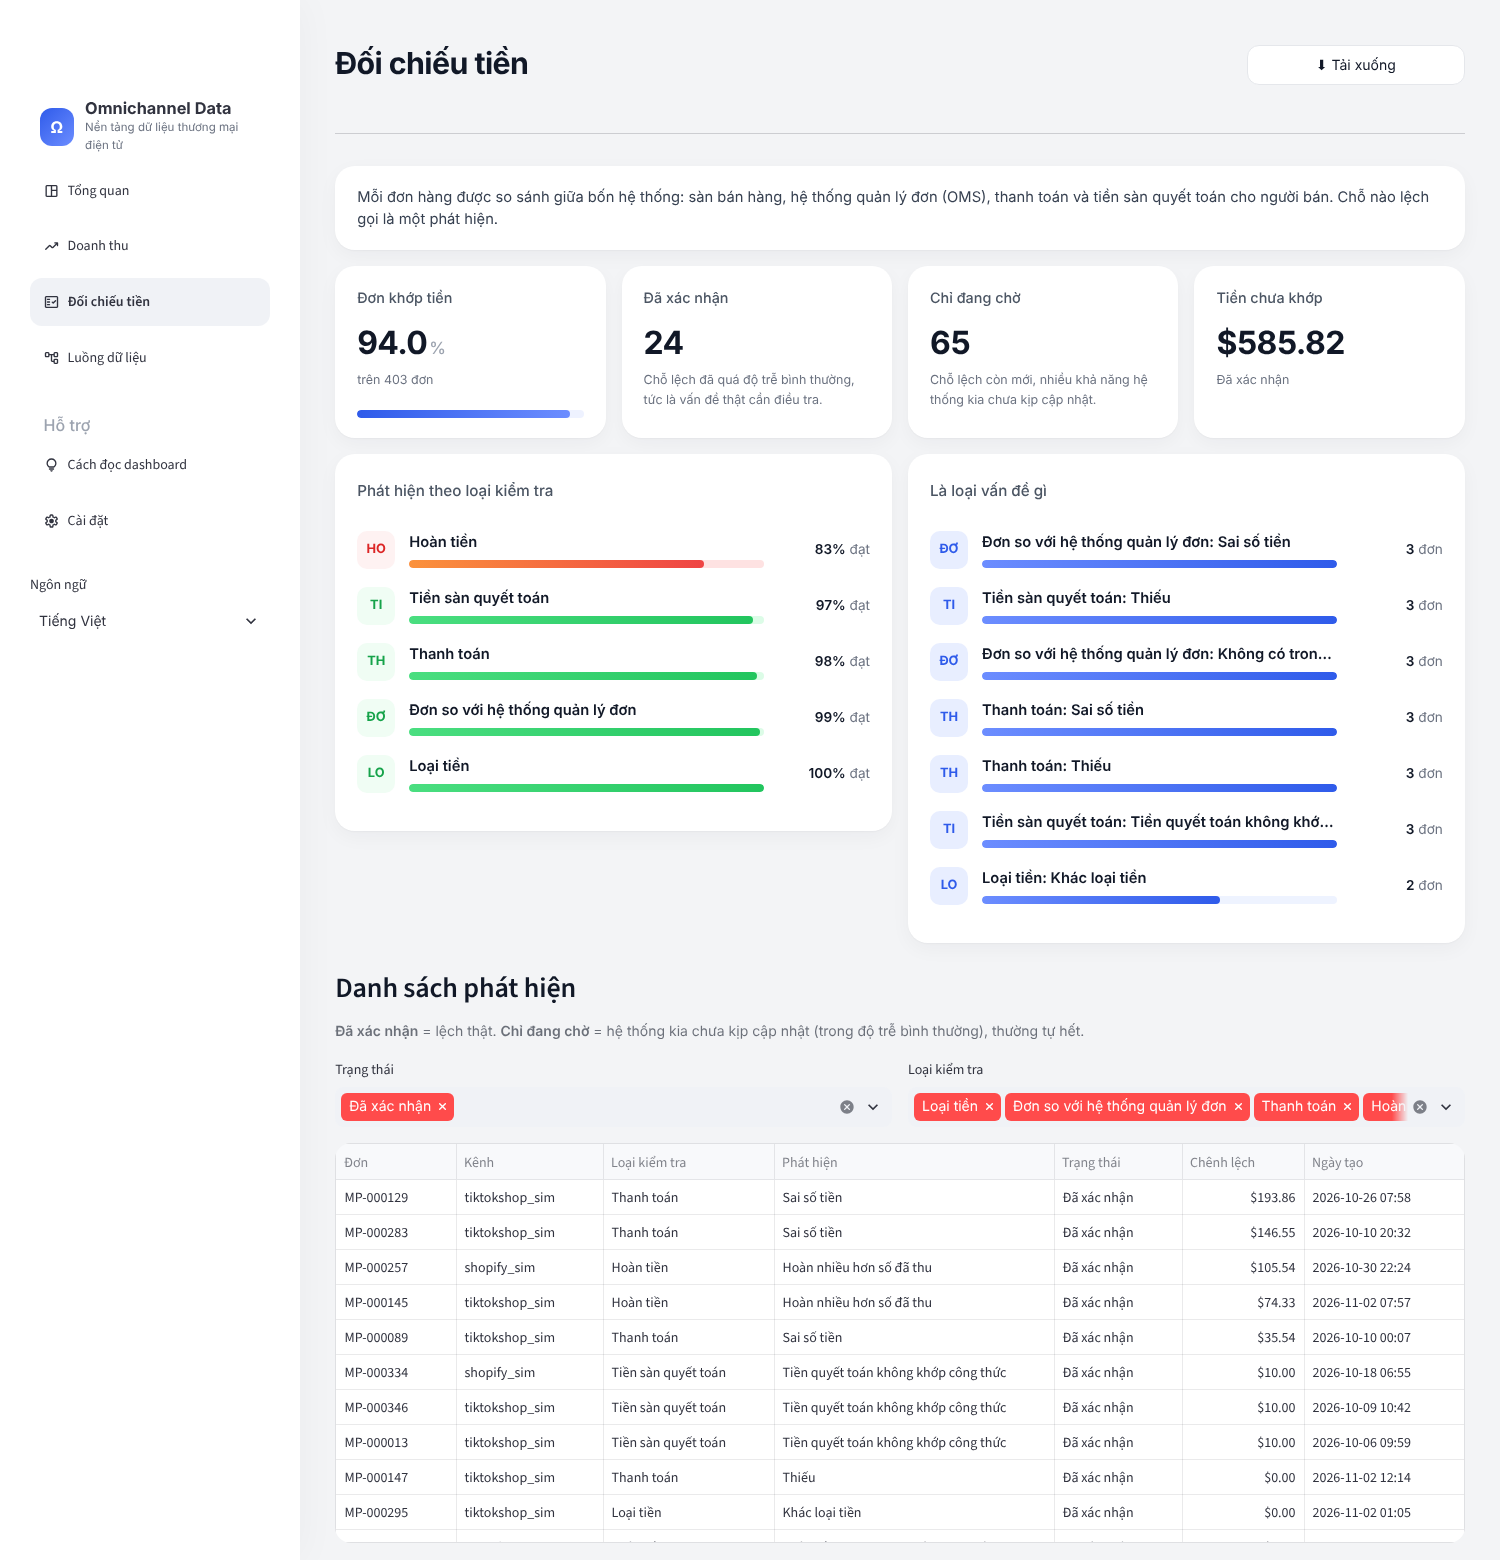
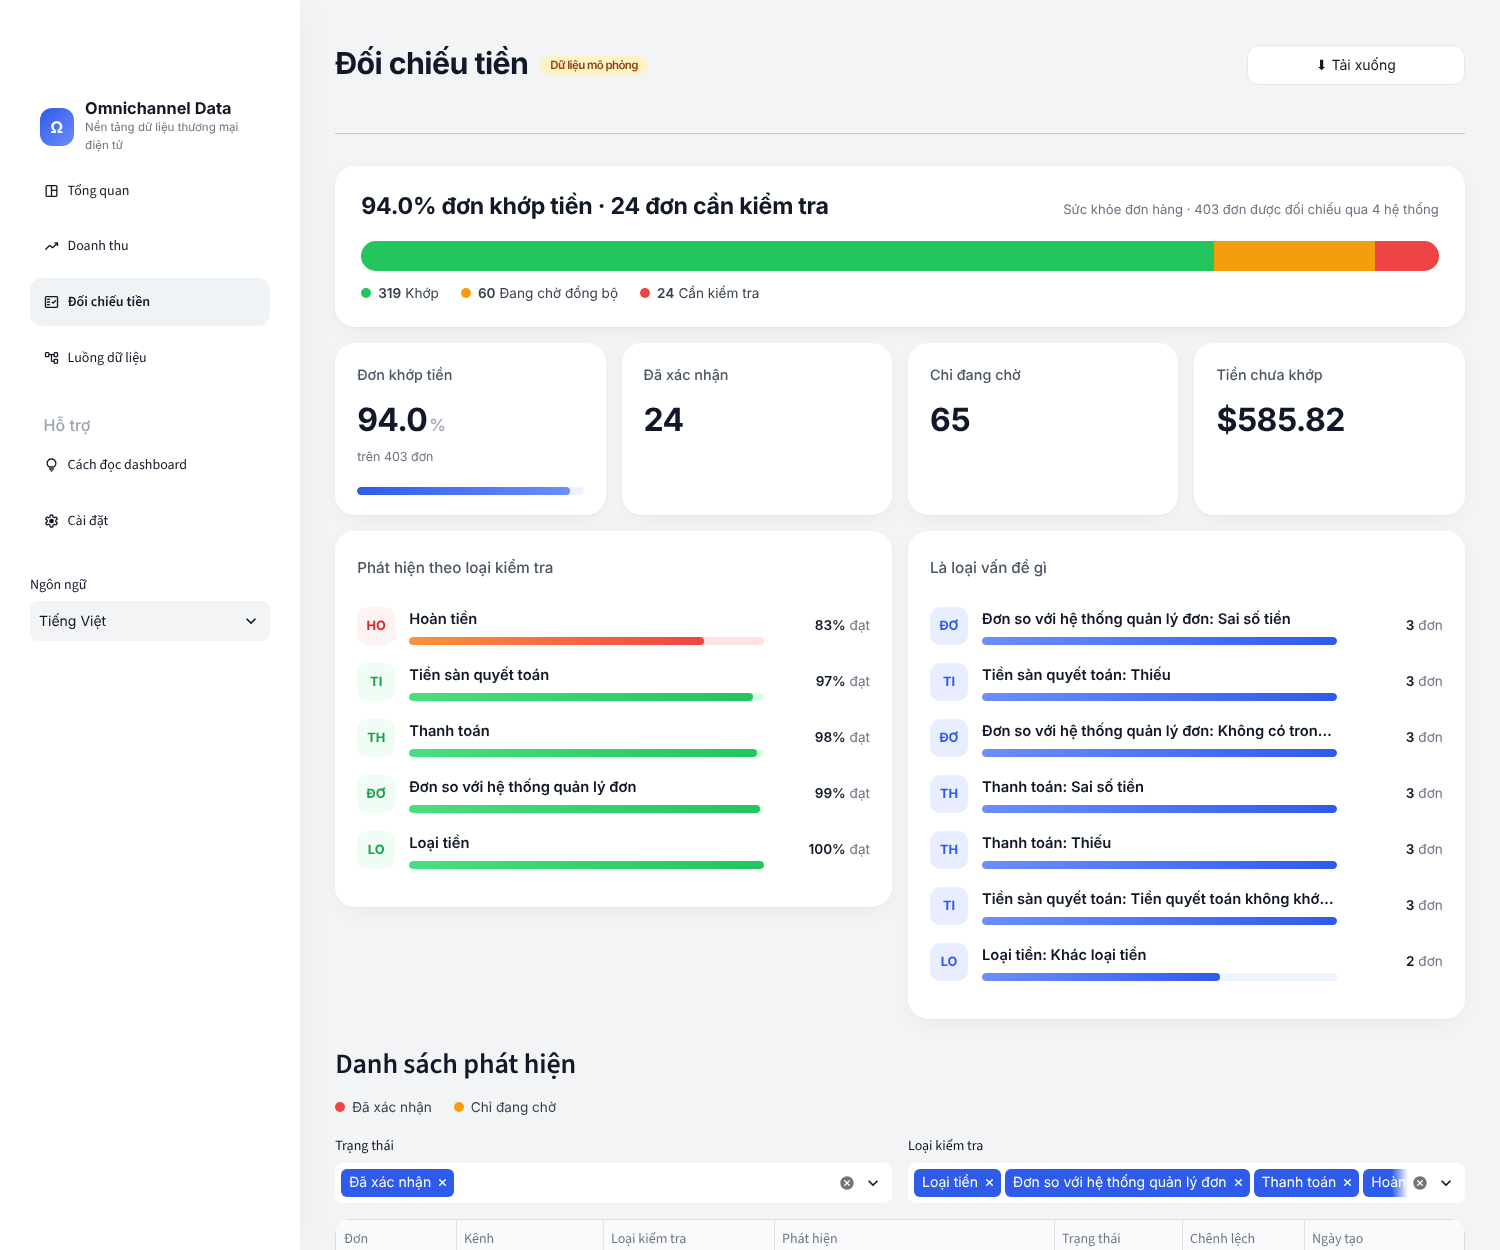
Dashboard: data-first story (order-health bar), far less text, force light theme

diff --git a/streamlit_app/platform_dashboard.py b/streamlit_app/platform_dashboard.py
@@ -50,7 +50,7 @@ def load_all():
 # ------------------------------------------------------------------ shared widgets
 def header(title: str, csv: tuple[str, bytes] | None = None) -> None:
     a, b = st.columns([8, 2])
-    a.markdown(f'<div class="page-title">{ui.esc(title)}</div>', unsafe_allow_html=True)
+    a.markdown(f'<div class="page-title">{ui.esc(title)}<span class="chip">{ui.esc(tr("sim_chip"))}</span></div>', unsafe_allow_html=True)
     if csv:
         b.download_button("⬇  " + tr("download"), csv[1], csv[0], "text/csv", use_container_width=True)
     ui.render('<hr class="page-rule">')
@@ -80,6 +80,13 @@ def activity_card(f: pd.DataFrame, gran: str, height: int = 352) -> str:
             f'<span style="color:#9CA3AF">{ui.esc(tr("activity_sub", unit=tr(gran).lower()))}</span></h4>{chart}</div>')
 
 
+def order_health_card(headline: str, checked: int, n_review: int, n_wait: int) -> str:
+    bar = ui.health_bar([(tr("hb_clean"), checked - n_review - n_wait, "#22C55E"), (tr("hb_wait"), n_wait, "#F59E0B"),
+                         (tr("hb_review"), n_review, "#EF4444")])
+    return (f'<div class="card hero"><div class="top"><div class="headline">{ui.esc(headline)}</div>'
+            f'<div class="sub">{ui.esc(tr("hero_title"))} · {ui.esc(tr("hero_sub", n=f"{checked:,}"))}</div></div>{bar}</div>')
+
+
 def nice_check(t: str) -> str:
     return check_name(lang, t)
 
@@ -93,15 +100,9 @@ def page_overview():
     f = story.filter_sales(sales, tf, ch)
     s = story.build_story(lang, f, kpi, summary)
 
-    ui.render(f'<div class="banner"><div class="eyebrow">{ui.esc(tr("story_title"))}</div>'
-              f'<div class="headline">{ui.esc(s["headline"])}</div><div class="sim">{ui.esc(tr("sim_note"))}</div></div>')
-    c = st.columns(3)
-    for col, key in zip(c, ("what", "why", "todo"), strict=True):
-        body = ui.esc(s[key]).replace("**", "§").replace("*", "")
-        parts = body.split("§")
-        body = "".join(f"<b>{p}</b>" if i % 2 else p for i, p in enumerate(parts))
-        col.markdown("".join(x.strip() for x in f'<div class="card story"><h5>{ui.esc(tr("story_" + key))}</h5><p>{body}</p></div>'.splitlines()),
-                     unsafe_allow_html=True)
+    checked = int(kpi["orders_checked"])
+    n_review, n_wait = int(kpi["orders_with_confirmed_issue"]), int(kpi["orders_with_timing_only"])
+    ui.render(order_health_card(s["headline"], checked, n_review, n_wait))
     st.write("")
 
     left, right = st.columns([6, 5])
@@ -119,11 +120,11 @@ def page_overview():
         r2 = st.columns(3)
         clean = float(kpi["clean_orders_pct"])
         r2[0].markdown(ui.kpi(tr("kpi_clean"), f"{clean:.1f}", "%", tr("kpi_of_orders", n=f"{int(kpi['orders_checked']):,}"),
-                              ui.meter(clean / 100)), unsafe_allow_html=True)
+                              ui.meter(clean / 100), hint=tr("g_clean_d")), unsafe_allow_html=True)
         r2[1].markdown(ui.kpi(tr("kpi_issues"), f"{int(kpi['orders_with_confirmed_issue'])}", "",
                               tr("kpi_timing_note", n=int(kpi["orders_with_timing_only"])),
                               ui.meter(int(kpi["orders_with_confirmed_issue"]) / max(1, int(kpi["orders_checked"])))), unsafe_allow_html=True)
-        r2[2].markdown(ui.kpi(tr("kpi_amount"), story.money(kpi["unresolved_amount_difference"]), "", tr("g_confirmed")),
+        r2[2].markdown(ui.kpi(tr("kpi_amount"), story.money(kpi["unresolved_amount_difference"]), "", "", "", hint=tr("g_confirmed_d")),
                        unsafe_allow_html=True)
     right.markdown("".join(x.strip() for x in activity_card(f, gran, 352).splitlines()), unsafe_allow_html=True)
     st.write("")
@@ -176,14 +177,16 @@ def page_recon():
     d = load_all()
     kpi, summary, findings = d["v_recon_kpi"].iloc[0], d["v_recon_summary"], d["v_recon_findings"]
     header(tr("title_recon"), ("reconciliation_findings.csv", findings.to_csv(index=False).encode()))
-    ui.render(ui.card("", f'<div class="story"><p>{ui.esc(tr("recon_intro")).replace("*", "")}</p></div>'))
+    s_ = story.build_story(lang, None, kpi, summary)
+    ui.render(order_health_card(s_["headline"], int(kpi["orders_checked"]), int(kpi["orders_with_confirmed_issue"]),
+                                int(kpi["orders_with_timing_only"])))
     st.write("")
     k = st.columns(4)
     k[0].markdown(ui.kpi(tr("kpi_clean"), f"{kpi['clean_orders_pct']:.1f}", "%", tr("kpi_of_orders", n=f"{int(kpi['orders_checked']):,}"),
-                         ui.meter(kpi["clean_orders_pct"] / 100)), unsafe_allow_html=True)
-    k[1].markdown(ui.kpi(tr("confirmed"), f"{int(kpi['confirmed_findings'])}", "", tr("g_confirmed_d")), unsafe_allow_html=True)
-    k[2].markdown(ui.kpi(tr("timing"), f"{int(kpi['timing_findings'])}", "", tr("g_timing_d")), unsafe_allow_html=True)
-    k[3].markdown(ui.kpi(tr("kpi_amount"), story.money(kpi["unresolved_amount_difference"]), "", tr("g_confirmed")), unsafe_allow_html=True)
+                         ui.meter(kpi["clean_orders_pct"] / 100), hint=tr("g_clean_d")), unsafe_allow_html=True)
+    k[1].markdown(ui.kpi(tr("confirmed"), f"{int(kpi['confirmed_findings'])}", hint=tr("g_confirmed_d")), unsafe_allow_html=True)
+    k[2].markdown(ui.kpi(tr("timing"), f"{int(kpi['timing_findings'])}", hint=tr("g_timing_d")), unsafe_allow_html=True)
+    k[3].markdown(ui.kpi(tr("kpi_amount"), story.money(kpi["unresolved_amount_difference"]), hint=tr("g_confirmed_d")), unsafe_allow_html=True)
     st.write("")
     health = story.check_health(summary)
     top = story.top_finding_types(summary)
@@ -196,7 +199,8 @@ def page_recon():
          for r in top.head(7).itertuples()])), unsafe_allow_html=True)
     st.write("")
     st.subheader(tr("findings_table"))
-    st.caption(tr("class_help"))
+    ui.render(ui.legend([(tr("confirmed"), "#EF4444"), (tr("timing"), "#F59E0B")]))
+    st.write("")
     c1, c2 = st.columns(2)
     cls = c1.multiselect(tr("filter_class"), ["CONFIRMED", "TIMING"], default=["CONFIRMED"],
                          format_func=lambda x: tr("confirmed" if x == "CONFIRMED" else "timing"))
@@ -216,12 +220,10 @@ def page_recon():
 def page_pipeline():
     h = load_all()["v_pipeline_health"].sort_values("rows_loaded", ascending=False)
     header(tr("title_pipeline"))
-    ui.render(ui.card("", f'<div class="story"><p>{ui.esc(tr("pipe_intro"))}</p></div>'))
-    st.write("")
     k = st.columns(4)
     k[0].markdown(ui.kpi(tr("pipe_tables"), f"{len(h)}"), unsafe_allow_html=True)
     k[1].markdown(ui.kpi(tr("pipe_rows"), f"{h['rows_loaded'].sum():,.0f}"), unsafe_allow_html=True)
-    k[2].markdown(ui.kpi(tr("pipe_versions"), f"{h['extra_versions'].sum():,.0f}", "", tr("g_oms") and ""), unsafe_allow_html=True)
+    k[2].markdown(ui.kpi(tr("pipe_versions"), f"{h['extra_versions'].sum():,.0f}"), unsafe_allow_html=True)
     k[3].markdown(ui.kpi(tr("pipe_last"), f"{h['last_loaded_at'].max():%d %b %H:%M}"), unsafe_allow_html=True)
     st.write("")
     chart = ui.bar_chart([x.split(".")[-1] for x in h["dataset"]], h["rows_loaded"].tolist(), height=260)
@@ -230,7 +232,6 @@ def page_pipeline():
     shown = h.rename(columns={"dataset": tr("col_table"), "rows_loaded": tr("col_rows"), "batches": tr("col_batches"),
                               "last_loaded_at": tr("col_last"), "minutes_since_last_load": tr("col_age")})
     st.dataframe(shown[[tr("col_table"), tr("col_rows"), tr("col_batches"), tr("col_last"), tr("col_age")]], width="stretch", hide_index=True)
-    st.caption(tr("pipe_note"))
 
 
 def page_guide():

diff --git a/streamlit_app/dash_i18n.py b/streamlit_app/dash_i18n.py
@@ -19,7 +19,7 @@ TEXT: dict[str, dict[str, str]] = {
         "story_what": "What happened", "story_why": "Why it matters", "story_todo": "What to do next",
         "kpi_net": "Net sales", "kpi_orders": "Orders", "kpi_aov": "Average order value",
         "kpi_clean": "Orders with matching money", "kpi_issues": "Orders to review", "kpi_amount": "Money not yet explained",
-        "kpi_of_orders": "of {n} orders", "kpi_timing_note": "{n} more are only waiting to sync",
+        "kpi_of_orders": "of {n} orders", "kpi_timing_note": "+{n} waiting",
         "activity": "Sales activity", "activity_sub": "Net sales per {unit}",
         "weakest": "Needs attention", "strongest": "Healthiest checks", "ok_suffix": "OK",
         "channel_board": "Channel leaderboard", "findings_board": "Biggest open findings",
@@ -54,7 +54,9 @@ TEXT: dict[str, dict[str, str]] = {
         "g_oms": "OMS", "g_oms_d": "The internal order management system that tracks fulfilment.",
         "g_clean": "Orders with matching money", "g_clean_d": "Share of orders with no confirmed finding.",
         "g_fresh": "Freshness", "g_fresh_d": "How long ago the data was last loaded.",
-        "headline_ok": "{clean} of orders have matching money; {issues} orders need a closer look.",
+        "headline_ok": "{clean} of orders match · {issues} need review",
+        "hb_clean": "Matching", "hb_wait": "Waiting to sync", "hb_review": "Need review", "sim_chip": "Simulated data",
+        "hero_title": "Order health", "hero_sub": "{n} orders checked across 4 systems",
         "story_what_body": "We compared {checked} orders across the marketplace, order system, payments and payouts. {issues} orders have a confirmed problem; {timing} more are only waiting for another system to catch up.",
         "story_why_body": "About {amount} is not yet explained. The weakest area is **{weak}** ({weak_pct} of its checks pass).",
         "story_todo_body": "Start with **{top}** ({n} orders). Open *Money matching* to see the exact orders; recent differences resolve on their own.",
@@ -76,7 +78,7 @@ TEXT: dict[str, dict[str, str]] = {
         "story_what": "Chuyện gì đã xảy ra", "story_why": "Vì sao quan trọng", "story_todo": "Nên làm gì tiếp",
         "kpi_net": "Doanh thu thuần", "kpi_orders": "Số đơn hàng", "kpi_aov": "Giá trị đơn trung bình",
         "kpi_clean": "Đơn khớp tiền", "kpi_issues": "Đơn cần kiểm tra", "kpi_amount": "Tiền chưa khớp",
-        "kpi_of_orders": "trên {n} đơn", "kpi_timing_note": "còn {n} đơn chỉ đang chờ đồng bộ",
+        "kpi_of_orders": "trên {n} đơn", "kpi_timing_note": "+{n} đang chờ",
         "activity": "Hoạt động bán hàng", "activity_sub": "Doanh thu thuần theo {unit}",
         "weakest": "Cần chú ý nhất", "strongest": "Ổn định nhất", "ok_suffix": "đạt",
         "channel_board": "Xếp hạng kênh bán", "findings_board": "Lỗi lớn nhất đang mở",
@@ -111,7 +113,9 @@ TEXT: dict[str, dict[str, str]] = {
         "g_oms": "OMS", "g_oms_d": "Hệ thống quản lý đơn hàng nội bộ, theo dõi việc giao hàng.",
         "g_clean": "Đơn khớp tiền", "g_clean_d": "Tỷ lệ đơn không có phát hiện nào đã xác nhận.",
         "g_fresh": "Độ mới", "g_fresh_d": "Dữ liệu được nạp lần cuối cách đây bao lâu.",
-        "headline_ok": "{clean} đơn hàng khớp tiền; {issues} đơn cần xem kỹ hơn.",
+        "headline_ok": "{clean} đơn khớp tiền · {issues} đơn cần kiểm tra",
+        "hb_clean": "Khớp", "hb_wait": "Đang chờ đồng bộ", "hb_review": "Cần kiểm tra", "sim_chip": "Dữ liệu mô phỏng",
+        "hero_title": "Sức khỏe đơn hàng", "hero_sub": "{n} đơn được đối chiếu qua 4 hệ thống",
         "story_what_body": "Hệ thống đã đối chiếu {checked} đơn giữa sàn, hệ thống quản lý đơn, thanh toán và tiền quyết toán. {issues} đơn có vấn đề đã xác nhận; {timing} đơn khác chỉ đang chờ hệ thống kia cập nhật.",
         "story_why_body": "Khoảng {amount} chưa được giải thích. Mảng yếu nhất là **{weak}** (chỉ {weak_pct} lượt kiểm tra đạt).",
         "story_todo_body": "Bắt đầu từ **{top}** ({n} đơn). Mở trang *Đối chiếu tiền* để xem đúng các đơn; những chỗ lệch mới sẽ tự hết.",

diff --git a/streamlit_app/dash_ui.py b/streamlit_app/dash_ui.py
@@ -56,6 +56,15 @@ header[data-testid="stHeader"], [data-testid="stToolbar"], [data-testid="stDecor
 .lrow .av {{ width:42px; height:42px; border-radius:50%; flex:none; display:flex; align-items:center; justify-content:center; color:#fff; font-weight:700; font-size:.85rem; }}
 .lrow .who {{ flex:1; min-width:0; }} .lrow .n {{ font-weight:600; font-size:.95rem; }} .lrow .s {{ color:{MUTED}; font-size:.8rem; }}
 .lrow .rank {{ display:flex; align-items:center; gap:6px; font-weight:600; }} .up {{ color:{GREEN}; font-size:.7rem; }} .down {{ color:{RED}; font-size:.7rem; }} .flat {{ color:#9CA3AF; font-size:.7rem; }}
+ .chip {{ display:inline-block; background:#FEF3C7; color:#92400E; font-size:.72rem; font-weight:600; padding:3px 10px; border-radius:99px; margin-left:12px; vertical-align:middle; }}
+.hero {{ padding: 22px 26px; }}
+.hero .top {{ display:flex; align-items:baseline; justify-content:space-between; flex-wrap:wrap; gap:6px; }}
+.hero .headline {{ font-size:1.45rem; font-weight:700; letter-spacing:-.01em; }}
+.hero .sub {{ color:{MUTED}; font-size:.82rem; }}
+.hbar {{ display:flex; height:30px; border-radius:99px; overflow:hidden; margin:16px 0 12px; background:#EEF0F4; }}
+.hbar span {{ display:block; height:100%; }}
+.legend {{ display:flex; gap:22px; flex-wrap:wrap; font-size:.85rem; color:#374151; }}
+.legend i {{ display:inline-block; width:10px; height:10px; border-radius:50%; margin-right:7px; }} .legend b {{ margin-right:4px; }}
 .flow {{ display:flex; gap:10px; align-items:stretch; flex-wrap:wrap; }} .flow .step {{ flex:1; min-width:150px; background:#F8FAFF; border:1px solid #E3EAFF; border-radius:16px; padding:14px 16px; }}
 .flow .step b {{ display:block; font-size:.92rem; }} .flow .step span {{ color:{MUTED}; font-size:.8rem; }} .flow .arrow {{ align-self:center; color:#9CA3AF; font-size:1.3rem; }}
 .gloss {{ display:grid; grid-template-columns: 200px 1fr; gap:10px 18px; }} .gloss b {{ font-weight:600; }} .gloss span {{ color:#4B5563; }}
@@ -150,10 +159,23 @@ def card(title: str, body: str, extra_class: str = "", min_height: int = 0) -> s
     return f'<div class="card {extra_class}"{style}>' + (f"<h4>{esc(title)}</h4>" if title else "") + body + "</div>"
 
 
-def kpi(label: str, value: str, unit: str = "", note: str = "", visual: str = "") -> str:
+def kpi(label: str, value: str, unit: str = "", note: str = "", visual: str = "", hint: str = "") -> str:
     u = f"<small>{esc(unit)}</small>" if unit else ""
     n = f'<div class="note">{note}</div>' if note else ""
-    return f'<div class="card kpi"><div class="label">{esc(label)}</div><div class="value">{esc(value)}{u}</div>{n}{visual}</div>'
+    tip = f' title="{esc(hint)}"' if hint else ""
+    return f'<div class="card kpi"{tip}><div class="label">{esc(label)}</div><div class="value">{esc(value)}{u}</div>{n}{visual}</div>'
+
+
+def health_bar(parts: list[tuple[str, float, str]]) -> str:
+    """parts: (label, count, colour). One stacked bar + a legend with the numbers (the data tells the story)."""
+    total = sum(c for _, c, _ in parts) or 1
+    segs = "".join(f'<span style="width:{c / total * 100:.2f}%;background:{col}" title="{esc(lab)}: {c:,.0f}"></span>' for lab, c, col in parts)
+    leg = "".join(f'<div><i style="background:{col}"></i><b>{c:,.0f}</b>{esc(lab)}</div>' for lab, c, col in parts)
+    return f'<div class="hbar">{segs}</div><div class="legend">{leg}</div>'
+
+
+def legend(items: list[tuple[str, str]]) -> str:
+    return '<div class="legend">' + "".join(f'<div><i style="background:{c}"></i>{esc(t)}</div>' for t, c in items) + "</div>"
 
 
 def meter(frac: float) -> str:

diff --git a/tests/integration/test_dashboard.py b/tests/integration/test_dashboard.py
@@ -91,21 +91,35 @@ def test_every_page_renders_in_both_languages(built, monkeypatch, page, lang):
     assert len(_html(at)) > 200
 
 
-def test_overview_tells_the_story_with_real_numbers(built, monkeypatch):
+def _words(html: str) -> int:
+    import re
+    html = re.sub(r"<style>.*?</style>", " ", html, flags=re.S)
+    return len(re.sub(r"<[^>]+>", " ", html).split())
+
+
+def test_overview_tells_the_story_with_data_not_paragraphs(built, monkeypatch):
     html = _html(_run(monkeypatch, built.path, "overview", "en"))
-    assert "of orders have matching money" in html and "orders need a closer look" in html
-    assert f"{len(built.dataset.marketplace_orders):,}" in html           # order count from the data, not hard-coded
-    assert "24 orders" in html                                          # 30 injected - 6 duplicate-key findings (Python engine only)
-    for section in ("What happened", "Why it matters", "What to do next", "Needs attention", "Channel leaderboard"):
+    assert "of orders match" in html and "need review" in html
+    assert f"{len(built.dataset.marketplace_orders):,}" in html           # order count comes from the data
+    assert "24" in html                                                    # 30 injected - 6 duplicate-key findings (Python engine only)
+    assert 'class="hbar"' in html and html.count("<svg") >= 4               # sparklines + activity chart
+    for section in ("Needs attention", "Healthiest checks", "Channel leaderboard", "Biggest open findings", "Simulated data"):
         assert section in html
-    assert "simulated" in html
+    assert "What happened" not in html and "<p>" not in html                # no walls of text
+    assert _words(html) < 330, _words(html)
 
 
 def test_overview_vietnamese_has_no_raw_codes(built, monkeypatch):
     html = _html(_run(monkeypatch, built.path, "overview", "vi"))
-    assert "Chuyện gì đã xảy ra" in html and "Nên làm gì tiếp" in html
+    assert "Sức khỏe đơn hàng" in html and "đơn khớp tiền" in html and "Dữ liệu mô phỏng" in html
     for code in ("AMOUNT_MISMATCH", "REFUND_EXCEEDS_PAID", "PENDING_SYNC", "FORMULA_MISMATCH"):
-        assert code not in html                                         # technical codes are translated for lay readers
+        assert code not in html                                             # technical codes are translated for lay readers
+
+
+def test_light_theme_is_forced():
+    import tomllib
+    cfg = tomllib.loads((ROOT / ".streamlit/config.toml").read_text())
+    assert cfg["theme"]["base"] == "light"
 
 
 def test_filters_narrow_the_numbers(built, monkeypatch):

diff --git a/README.md b/README.md
@@ -232,7 +232,7 @@ Shopify/TikTok Shop integration.
 
 ```bash
 pip install -e ".[sim,local,dev]"
-make test     # 76 tests: unit + simulator/DuckDB/dbt + BigQuery fake-client/compile checks (also run in CI, incl. PostgreSQL)
+make test     # 79 tests: unit + simulator/DuckDB/dbt + BigQuery fake-client/compile checks (also run in CI, incl. PostgreSQL)
 make demo     # simulator -> ingest -> dbt on DuckDB -> reconcile -> freshness/DQ -> alerts
 ```
 
@@ -241,7 +241,7 @@ a batch adds 0 rows; an outage mid-pagination leaves the checkpoint untouched an
 appear in audit rows or alerts; the dbt SQL mart and the Python rule engine flag the same orders; repeated reconciliation runs create no
 duplicate exceptions; repeated alerts are grouped and recovery is announced.
 
-**Dashboard** (`streamlit_app/platform_dashboard.py`): a business-readable report on top of the BigQuery views - an auto-written "short story" (what happened / why it matters / what to do), KPI cards with sparklines, activity chart, health rankings, leaderboards, plain-language names for every technical code, a *How to read this* page, and a Vietnamese / English switch.
+**Dashboard** (`streamlit_app/platform_dashboard.py`): a business-readable report on top of the BigQuery views that tells the story with data, not paragraphs - an order-health bar, KPI cards with sparklines, activity chart, health rankings and leaderboards - with plain-language names for every technical code, a *How to read this* page, a Vietnamese / English switch, and a forced light theme (`.streamlit/config.toml`; start Streamlit from the repo root).
 ```bash
 pip install -e ".[dashboard]"
 # 1) run sql/bigquery_dashboard_views.sql once in the BigQuery console   2) gcloud auth application-default login
